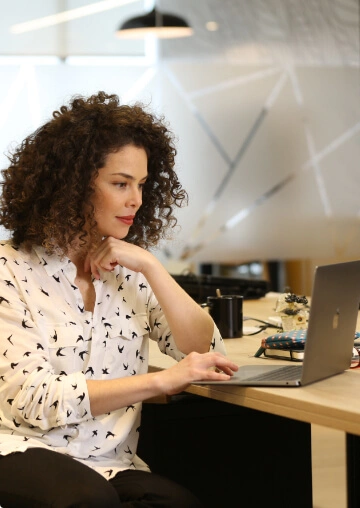
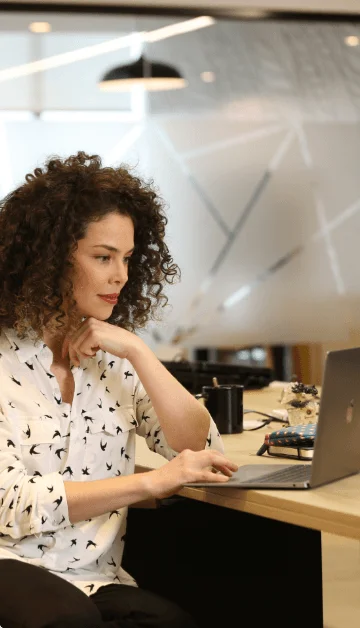
Evitar uso de object-fit para ajustar imagen de confirmacion

diff --git a/components/features/paywall/content/_children/wizard-confirmation/index.jsx b/components/features/paywall/content/_children/wizard-confirmation/index.jsx
@@ -110,10 +110,10 @@ const WizardConfirmation = props => {
     <div style={{ display: 'flex', justifyContent: 'center' }}>
       <S.Panel maxWidth="1060px" direction="row">
         <Picture 
-          height="100%" 
+          width={{ xs: "0px", md: "360px" }}
           hideOnScreenSize="sm" 
           src={theme.images.confirmation_webp} 
-          types={['webp', 'jpg']}
+          types={['webp', 'png']}
         />
         <S.Content>
           <S.Title>
@@ -141,17 +141,8 @@ const WizardConfirmation = props => {
             </Item>
             {!freeAccess && (
               <>
-                {/* <Item label={`${msgs.priceLabel.toUpperCase()}: `}>
-                  {paidTotal !== 0
-                    ? `${msgs.currencySymbol.toUpperCase()} ${paidTotal}`
-                    : `${msgs.freeAmount.toUpperCase()} ${description.title} ${
-                        description.description
-                      }`}
-                </Item> */}
-
                 <S.Item>
                   {`${msgs.priceLabel.toUpperCase()}: `}
-
                   <strong>
                     {`${
                       paidTotal !== 0

diff --git a/components/features/paywall/_children/picture.jsx b/components/features/paywall/_children/picture.jsx
@@ -1,5 +1,5 @@
 import React from 'react'
-import styled, { withTheme } from 'styled-components'
+import styled, { withTheme, css } from 'styled-components'
 import {
   spacing,
   flexbox,
@@ -12,6 +12,13 @@ import URL from 'url-parse'
 
 const NoLineHeightPicture = styled.picture`
   line-height: 0px;
+`
+
+const Img = styled.img`
+  ${props => props.objectFit && (
+    css`
+      object-fit: ${props.objectFit};
+  `)}
 `
 
 const Picture = props => {
@@ -31,11 +38,12 @@ const Picture = props => {
       )}
       {types.map(type => (
         <source
+          key={`source_${type}`}
           srcSet={pathname.replace(/\.[\w-]+$/, `.${type}`) + (query || '')}
           type={`image/${type}`}
         />
       ))}
-      <img src={src} {...restProps} />
+      <Img src={src} {...restProps} />
     </NoLineHeightPicture>
   )
 }

diff --git a/src/websites/gestion/index.js b/src/websites/gestion/index.js
@@ -20,7 +20,7 @@ import './images/default-md.png'
 import './images/default-lg.png'
 import './images/web_img_ges_badge2.png'
 import './images/plusg.png'
-import './images/paywall/img_confirmation.jpg'
+import './images/paywall/img_confirmation.png'
 import './images/paywall/img_confirmation.webp'
 import './images/paywall/img_lector.png'
 import './images/paywall/img_lector.webp'

diff --git a/src/websites/elcomercio/index.js b/src/websites/elcomercio/index.js
@@ -16,7 +16,7 @@ import './images/default-blog.jpg'
 import './images/default-sm.png'
 import './images/default-md.png'
 import './images/default-lg.png'
-import './images/paywall/img_confirmation.jpg'
+import './images/paywall/img_confirmation.png'
 import './images/paywall/img_confirmation.webp'
 import './images/paywall/img_lector.png'
 import './images/paywall/img_lector.webp'

diff --git a/components/features/paywall/content/_children/wizard-confirmation/styled.jsx b/components/features/paywall/content/_children/wizard-confirmation/styled.jsx
@@ -30,12 +30,6 @@ export const Subtitle = styled(_Markdown)`
   `}
 `
 
-export const Image = styled.img`
-  width: 360px;
-  object-fit: cover;
-  height: 100%;
-`
-
 export const Content = styled.div`
   ${({ theme }) => css`
     display: flex;
